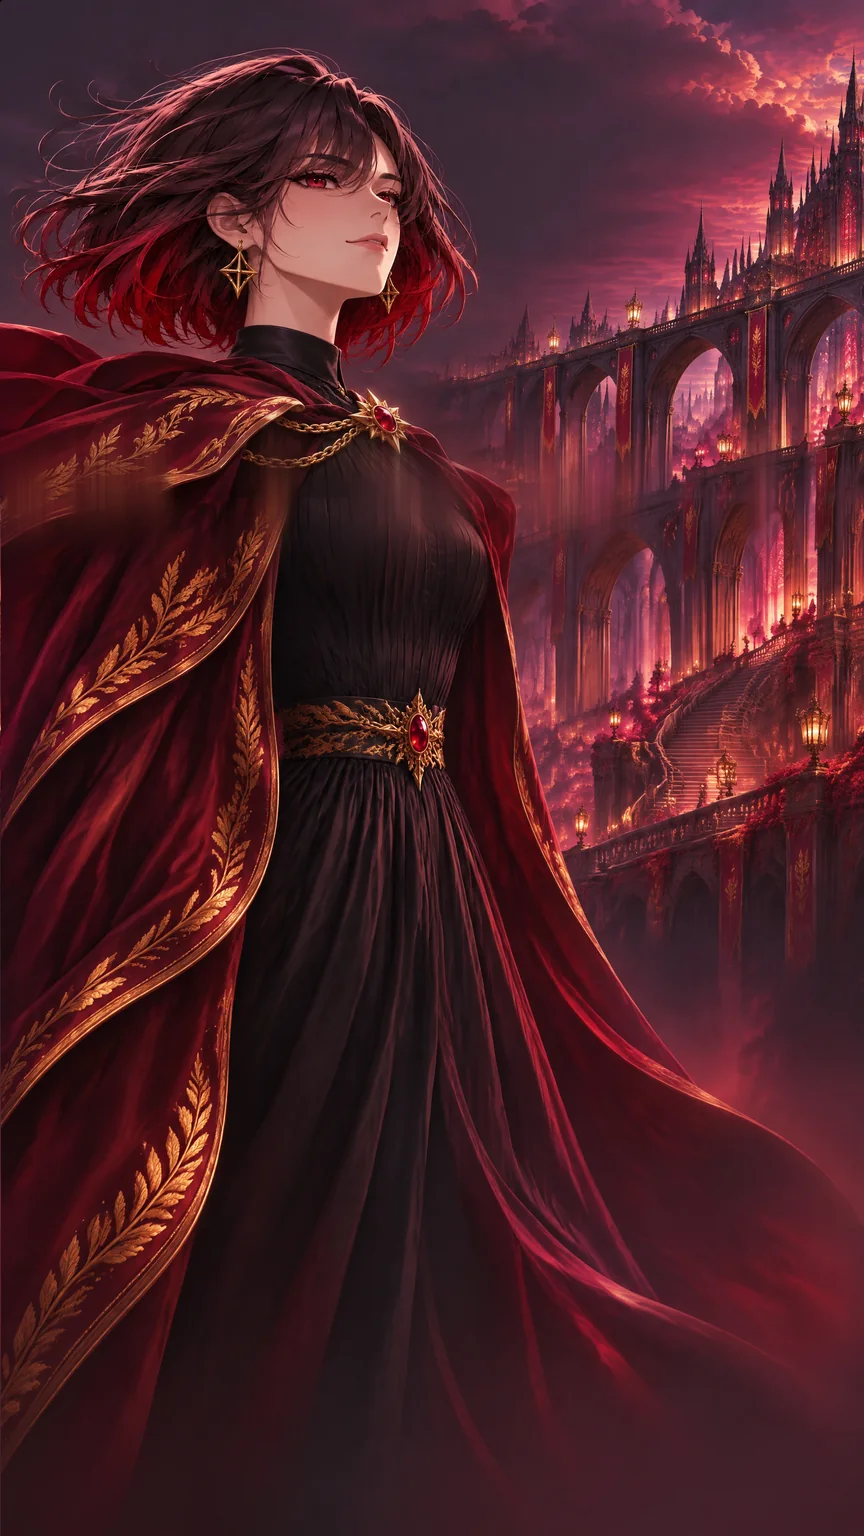
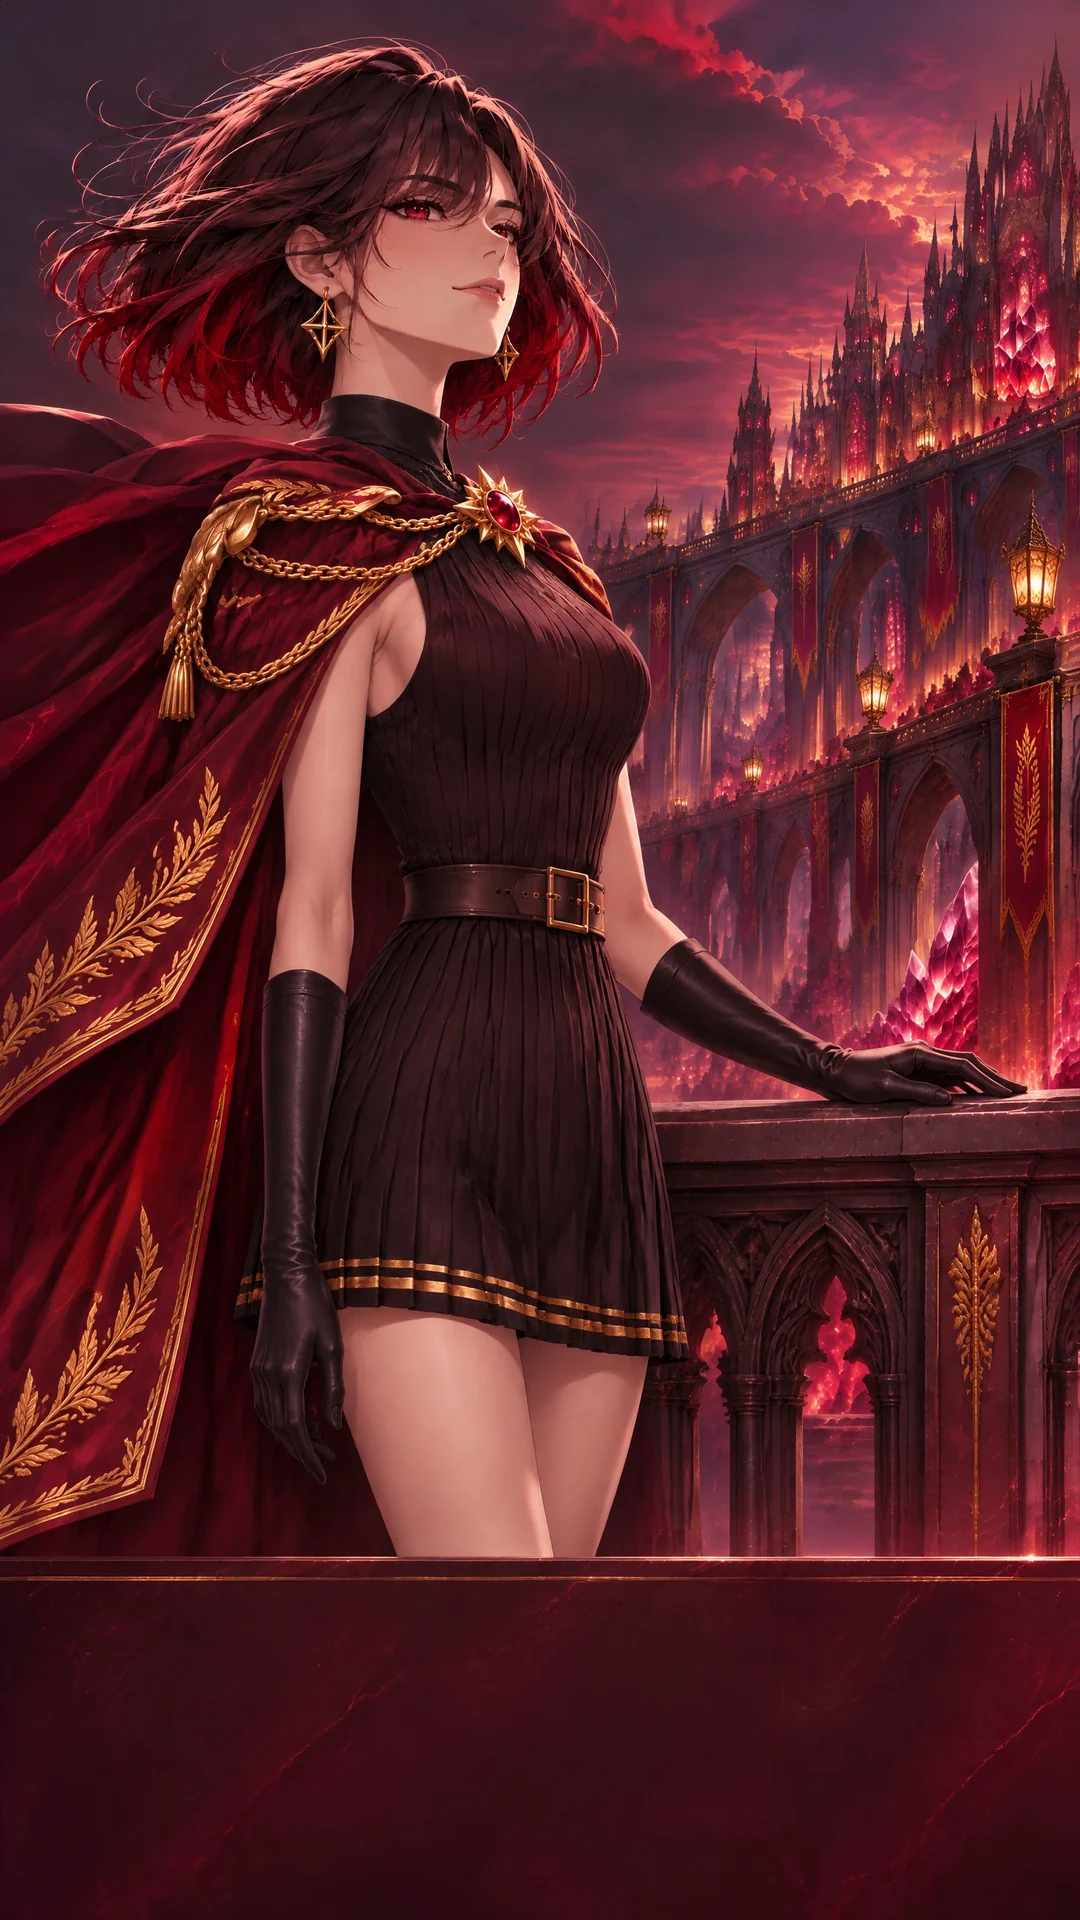
A11: fichas con paralaje, reflejo en el botón, flashes de Nova, Azara según su ficha, Orion con su esfera y sonido de cierre de A01
Claude-Session: https://claude.ai/code/session_01CL7wg269cKFeX8NUniz13e

diff --git a/kura/a01/styles.css b/kura/a01/styles.css
@@ -900,7 +900,29 @@ button, input { font: inherit; color: inherit; }
 .guia-card.is-in-l .guia-arte, .guia-card.is-in-l .guia-body { animation: guia-l .45s cubic-bezier(.2, .9, .3, 1); }
 @keyframes guia-r { from { opacity: 0; translate: 6cqw 0; } }
 @keyframes guia-l { from { opacity: 0; translate: -6cqw 0; } }
-.guia-arte { position: absolute; inset: 0; width: 100%; height: 100%; object-fit: cover; object-position: 50% 0; z-index: -2; }
+.guia-arte, .guia-flashes { position: absolute; left: -3cqw; top: -3cqw; width: calc(100% + 6cqw); height: calc(100% + 6cqw); z-index: -2;
+  translate: calc(var(--gx, 0) * -2.6cqw) calc(var(--gy, 0) * -2.2cqw); transition: translate .5s cubic-bezier(.2, .8, .3, 1); }
+.guia-arte { object-fit: cover; object-position: 50% 0; }
+/* paralaje: el HUD flota al frente, en sentido contrario a la ilustración */
+.guia-body, .guia-foot { translate: calc(var(--gx, 0) * 1.3cqw) calc(var(--gy, 0) * 1cqw); transition: translate .5s cubic-bezier(.2, .8, .3, 1); }
+/* Nova: flashes de cámara que se disparan al azar en el fondo */
+.guia-flashes { pointer-events: none; }
+.guia-flashes i { position: absolute; width: calc(var(--s) * 13cqw); height: calc(var(--s) * 13cqw); translate: -50% -50%; opacity: .12; border-radius: 50%;
+  background: radial-gradient(circle, #fff 0 6%, rgba(220, 240, 255, .9) 12%, rgba(140, 200, 255, .35) 30%, rgba(92, 170, 255, 0) 62%);
+  mix-blend-mode: screen; animation: guia-flash var(--t) var(--d) infinite; }
+.guia-flashes i::before, .guia-flashes i::after { content: ''; position: absolute; left: 50%; top: 50%; width: 180%; height: 2px; translate: -50% -50%;
+  background: linear-gradient(90deg, transparent, rgba(235, 246, 255, .9), transparent); }
+.guia-flashes i::after { rotate: 90deg; width: 120%; }
+@keyframes guia-flash { 0%, 78% { opacity: .1; scale: .55; } 80% { opacity: 1; scale: 1.25; } 84% { opacity: .55; scale: 1; } 86% { opacity: .95; scale: 1.15; } 92%, 100% { opacity: .1; scale: .55; } }
+/* reflejo del botón «Empezar con …»: brillo de cristal arriba y un destello que lo cruza de vez en cuando */
+.guia-start { position: relative; overflow: hidden; isolation: isolate; }
+.guia-start::before { content: ''; position: absolute; left: 6%; right: 6%; top: 0; height: 48%; border-radius: 99px 99px 40% 40%; z-index: -1; pointer-events: none;
+  background: linear-gradient(180deg, rgba(255, 255, 255, .34), rgba(255, 255, 255, 0)); }
+.guia-sheen { position: absolute; top: -40%; bottom: -40%; left: 0; width: 26%; z-index: 1; pointer-events: none; translate: -160% 0; rotate: 18deg;
+  background: linear-gradient(90deg, transparent, rgba(255, 255, 255, .15) 35%, rgba(255, 255, 255, .62) 50%, rgba(255, 255, 255, .15) 65%, transparent);
+  animation: guia-sheen 4.6s cubic-bezier(.45, .05, .25, 1) 1.2s infinite; }
+@keyframes guia-sheen { 0% { translate: -160% 0; } 30%, 100% { translate: 520% 0; } }
+.guia-card[data-guia="amaya"] .guia-sheen, .guia-card[data-guia="amaya"] .guia-start::before { display: none; }
 .guia-velo { position: absolute; inset: 0; z-index: -1; pointer-events: none; }
 .guia-close { position: absolute; top: 3.6cqw; right: 3.6cqw; width: 10cqw; height: 10cqw; display: grid; place-items: center; cursor: pointer; padding: 0;
   border-radius: 50%; border: 1px solid var(--g-line); background: var(--g-glass); backdrop-filter: blur(6px); -webkit-backdrop-filter: blur(6px); }
@@ -1026,8 +1048,34 @@ button, input { font: inherit; color: inherit; }
 .guia-card[data-guia="amaya"] .guia-start { font: 500 4.7cqw/1 var(--g-body); letter-spacing: .03em; border-color: rgba(190, 255, 232, .9);
   background: linear-gradient(90deg, rgba(110, 226, 186, .72), rgba(110, 200, 236, .72)); box-shadow: 0 0 5cqw rgba(120, 236, 196, .55), inset 0 0 3cqw rgba(255, 255, 255, .3); }
 
-.reduce-motion .guia-dialog[open] .guia-card, .reduce-motion .guia-card .guia-arte, .reduce-motion .guia-card .guia-body { animation: none; }
-@media (prefers-reduced-motion: reduce) { .guia-dialog[open] .guia-card, .guia-card .guia-arte, .guia-card .guia-body { animation: none; } }
+
+/* Más aire en el HUD de Azara, Nova y Orion (Amaya se queda como está) */
+.guia-card:not([data-guia="amaya"]) .guia-body { bottom: 21.5cqw; }
+.guia-card:not([data-guia="amaya"]) .guia-items { margin-top: 5.4cqw; }
+.guia-card:not([data-guia="amaya"]) .guia-contempla { margin-top: 3.6cqw; }
+.guia-card[data-guia="azara"] .gh-tag { margin-bottom: 2.6cqw; }
+.guia-card[data-guia="azara"] .guia-titulo { font-size: 7.8cqw; line-height: 1.12; }
+.guia-card[data-guia="azara"] .guia-lista { padding: .6cqw 4.6cqw; }
+.guia-card[data-guia="azara"] .guia-lista .gi { padding: 3.2cqw 0; font-size: 4.6cqw; gap: 3.6cqw; }
+.guia-card[data-guia="azara"] .guia-contempla { padding: 3cqw 4.4cqw; font-size: 3.9cqw; }
+/* Nova: un solo panel minimalista con filetes, sin cajas ni flechas por función */
+.guia-card[data-guia="nova"] .gh-tag { margin-bottom: 2.8cqw; }
+.guia-card[data-guia="nova"] .guia-titulo { font-size: 7.4cqw; }
+.guia-card[data-guia="nova"] .guia-sub { margin-top: 1.8cqw; }
+.guia-card[data-guia="nova"] .guia-grid { gap: 0; padding: .6cqw 3.2cqw; border-radius: 3.6cqw; border: 1px solid var(--g-line); background: var(--g-glass);
+  backdrop-filter: blur(8px); -webkit-backdrop-filter: blur(8px); column-gap: 4cqw; }
+.guia-card[data-guia="nova"] .guia-grid .gi { min-height: 10.6cqw; padding: 2cqw 0; border: 0; border-radius: 0; background: none; backdrop-filter: none; -webkit-backdrop-filter: none;
+  border-bottom: 1px solid rgba(120, 190, 255, .16); font-size: 3.35cqw; gap: 2.4cqw; }
+.guia-card[data-guia="nova"] .guia-grid .gi:nth-last-child(-n+2) { border-bottom: 0; }
+.guia-card[data-guia="nova"] .guia-grid .gi-chev { display: none; }
+.guia-card[data-guia="nova"] .guia-grid .gi-ico { width: 5.8cqw; height: 5.8cqw; }
+/* Orion: filas con más separación y título más contenido */
+.guia-card[data-guia="orion"] .gh-orion { margin-bottom: 5cqw; }
+.guia-card[data-guia="orion"] .guia-titulo { font-size: 8.4cqw; line-height: 1.08; }
+.guia-card[data-guia="orion"] .guia-filas { gap: 3.2cqw; }
+.guia-card[data-guia="orion"] .guia-filas .gi { padding: 3cqw 4cqw; }
+.reduce-motion .guia-dialog[open] .guia-card, .reduce-motion .guia-card .guia-arte, .reduce-motion .guia-card .guia-body, .reduce-motion .guia-sheen, .reduce-motion .guia-flashes i { animation: none; }
+@media (prefers-reduced-motion: reduce) { .guia-dialog[open] .guia-card, .guia-card .guia-arte, .guia-card .guia-body, .guia-sheen, .guia-flashes i { animation: none; } }
 
 /* ---------- A05 · Restaurando sesión (arranque) ----------
    La composición (899 × 1750) cubre siempre toda la pantalla, como un fondo «cover»:

diff --git a/kura/a01/js/a11-guias.js b/kura/a01/js/a11-guias.js
@@ -63,6 +63,8 @@ const GUIA = {
   },
   nova: {
     arte: 'assets/a11/guias/nova.webp', layout: 'grid', contemplaIco: 'ojo',
+    // flashes de los fotógrafos del fondo (en % de la ilustración): [x, y, tamaño]
+    flashes: [[60.4, 23.5, 1], [63.4, 24.6, .7], [72.7, 23.4, 1], [82.5, 24.4, .9], [90.4, 25.3, .8], [97.4, 24.7, .7], [58.9, 24.3, .6], [75.7, 24.5, .6], [86.7, 24.8, .65]],
     es: {
       titulo: ['Tu presencia importa.'], sub: 'Experto en seducción y juegos sociales.',
       items: [['aura', 'Aura de atracción'], ['grupo', 'Juego social'], ['corona', 'Reglas de oro para ligar'], ['copa', 'Domina el lugar'], ['charla', 'Habilidades sociales'], ['pin', 'Escenarios reales'], ['escudo', 'Anti-bullying'], ['corazon', 'Señales de interés']],
@@ -126,6 +128,7 @@ export function guidePreview({ guias, lang, sfx, onStart, reduced }) {
     card.dataset.guia = id;
     card.innerHTML = `
       <img class="guia-arte" src="${G.arte}" alt="" decoding="async" draggable="false">
+      ${G.flashes ? `<div class="guia-flashes" aria-hidden="true">${G.flashes.map(([x, y, s], i) => `<i style="left:${x}%;top:${y}%;--s:${s};--d:${(i * 1.13) % 3.3}s;--t:${1.5 + (i * .61) % 1.9}s"></i>`).join('')}</div>` : ''}
       <div class="guia-velo" aria-hidden="true"></div>
       <button type="button" class="guia-close" aria-label="${U.cerrar}"><svg viewBox="0 0 24 24" aria-hidden="true"><path d="M6.5 6.5l11 11M17.5 6.5l-11 11" /></svg></button>
       <div class="guia-body">
@@ -138,7 +141,7 @@ export function guidePreview({ guias, lang, sfx, onStart, reduced }) {
       </div>
       <div class="guia-foot">
         <button type="button" class="guia-nav guia-prev" aria-label="${U.anterior}">${ARROW_L}</button>
-        <button type="button" class="guia-start"><span>${esc(U.empezar.replace('{nombre}', g.nombre))}</span>${CHEV}</button>
+        <button type="button" class="guia-start"><i class="guia-sheen" aria-hidden="true"></i><span>${esc(U.empezar.replace('{nombre}', g.nombre))}</span>${CHEV}</button>
         <button type="button" class="guia-nav guia-next" aria-label="${U.siguiente}">${ARROW_R}</button>
       </div>`;
   }
@@ -163,13 +166,15 @@ export function guidePreview({ guias, lang, sfx, onStart, reduced }) {
   // precarga silenciosa de las cuatro ilustraciones (al pasar de una a otra no hay parpadeo)
   const pre = () => Object.values(GUIA).forEach((G) => { const im = new Image(); im.decoding = 'async'; im.src = G.arte; });
 
-  dlg.addEventListener('close', () => { current = null; opener?.focus?.({ preventScroll: true }); opener = null; });
-  dlg.addEventListener('click', (e) => { if (e.target === dlg) { sfx('tap'); close(); } }); // tocar fuera la cierra
+  // al cerrar suena lo mismo que al cerrar Términos y Privacidad en A01 (no al empezar el tour, que tiene su propio sonido)
+  let starting = false;
+  dlg.addEventListener('close', () => { if (!starting) sfx('closeLegal'); starting = false; current = null; opener?.focus?.({ preventScroll: true }); opener = null; });
+  dlg.addEventListener('click', (e) => { if (e.target === dlg) close(); }); // tocar fuera la cierra
   card.addEventListener('click', (e) => {
-    if (e.target.closest('.guia-close')) { sfx('tap'); close(); }
+    if (e.target.closest('.guia-close')) close();
     else if (e.target.closest('.guia-prev')) step(-1);
     else if (e.target.closest('.guia-next')) step(1);
-    else if (e.target.closest('.guia-start')) { const id = current; close(); onStart(id); }
+    else if (e.target.closest('.guia-start')) { const id = current; starting = true; close(); onStart(id); }
   });
   dlg.addEventListener('keydown', (e) => {
     if (e.key === 'ArrowRight') { e.preventDefault(); step(1); }
@@ -186,5 +191,12 @@ export function guidePreview({ guias, lang, sfx, onStart, reduced }) {
   card.addEventListener('pointercancel', () => { tracking = false; });
   document.addEventListener('kura:lang', () => { if (current) render(current); });
 
-  return { open, close, prefetch: pre, get current() { return current; }, get isOpen() { return dlg.open; } };
+  /** Paralaje (cursor o giroscopio): la ilustración va al fondo y el HUD flota al frente. n = [x, y] en −1…1. */
+  function look([x, y]) {
+    if (!dlg.open) return;
+    const r = reduced(), nx = r ? 0 : Math.max(-1, Math.min(1, x)), ny = r ? 0 : Math.max(-1, Math.min(1, y));
+    card.style.setProperty('--gx', nx.toFixed(3)); card.style.setProperty('--gy', ny.toFixed(3));
+  }
+
+  return { open, close, look, prefetch: pre, get current() { return current; }, get isOpen() { return dlg.open; } };
 }

diff --git a/kura/a01/js/main.js b/kura/a01/js/main.js
@@ -36,7 +36,8 @@ let stars = null;
 // Estado de aparición del lienzo de Three.js (estrellas y destellos), animado junto con la escena.
 const reveal = { stars: motion.reduced ? 1 : 0, flares: motion.reduced ? 1 : 0, zoom: motion.reduced ? 1 : 1.06, sky6: 0 }; // sky6: estrellas del cielo de A06
 let a06 = null, a10 = null, a11 = null;
-const tilt = parallax(stage, motion, unit, (o) => { stars?.shift(o); a06?.look(o.n); a10?.look(o.n); a11?.look(o.n); });
+let guiaFicha = null; // vista previa de los guías de A11 (también con paralaje)
+const tilt = parallax(stage, motion, unit, (o) => { stars?.shift(o); a06?.look(o.n); a10?.look(o.n); a11?.look(o.n); guiaFicha?.look(o.n); });
 // A06 · Bienvenida con Alaira: su escenario se arma la primera vez que hace falta (o en segundo plano).
 a06 = mountA06({ stage, motion, onLayers: (els) => tilt.addLayers(els) });
 // A10 · ¿Qué te motiva a cambiar tu Aura?: escenario propio (Alaira en la luna creciente sobre el lago).
@@ -554,6 +555,7 @@ const preview = guidePreview({
   guias: GUIAS, lang: currentLang, sfx: (n) => audio.sfx(n), reduced: () => motion.reduced,
   onStart: (id) => { audio.sfx('start'); a11.sparkle(20); try { localStorage.setItem('kura.tourInicio', id); } catch {} toast(t('a11Soon')); },
 });
+guiaFicha = preview;
 guiasEl.addEventListener('click', (e) => {
   const card = e.target.closest('.a11-card'); if (!card) return;
   audio.sfx('tap'); a11.sparkle(16);

diff --git a/kura/a01/README.md b/kura/a01/README.md
@@ -126,7 +126,7 @@ Se entra con «Continuar» u «Omitir» en A10; también con `#a11`. **Escenario
 - **Paralaje** con cursor o giroscopio: templo y cielo al fondo, Alaira en medio, glicinas y pétalos delante, el HUD encima, y dentro de cada banner el mundo se desliza un poco (ventana con profundidad).
 - **Título** según la identidad elegida en A09: «¿Lista para / KURA?» (mujer), «¿Listo para / KURA?» (hombre) y «¿Todo listo / para KURA?» (otra identidad, prefiero no decirlo o sin respuesta). En inglés siempre «Ready for / KURA?». Arriba «Tu viaje comienza» · «Your journey begins» y abajo «Ellos también te esperan.» · «They’re waiting for you too.».
 - **Banners** de Amaya (ciudad aérea de cristal y jardines), Azara (castillo carmesí imponente, con vitrales y cristales de rubí), Nova (noche pop star en azul oscuro, con flashes) y Orion (biblioteca observatorio con esfera armilar), en HD (`assets/a11/banners/`, 1400 × 600). El nombre y la flecha van en texto real (nítido y traducible). Tocar un banner hace destellar el dedo de Alaira y abre su **vista previa** (`js/a11-guias.js`).
-- **Vista previa del guía** (diseños aprobados, hechos con Higgsfield): ficha del mismo tamaño para los cuatro (9 : 16, todo medido en `cqw`), con la **misma imagen de su banner** a sangre (el banner arriba, intacto, y su mundo continuado hacia abajo con Higgsfield; `assets/a11/guias/`, HD en `kura/diseno/A11/guias/`) y un HUD con el estilo de cada mundo: **Amaya** aero (cristal claro, menta y cielo, título ancho en Michroma con «Cuerpo · Cuidado · Descanso», mosaicos con datos de ejemplo y el aviso de consultar siempre al médico), **Azara** carmesí rubí sobrio (Cormorant marfil, lista en cristal guinda), **Nova** pop star de noche minimalista (Outfit delgada, azul de ciudad, ocho mosaicos) y **Orion** biblioteca observatorio en azul noche y oro (Cormorant marfil, título a la izquierda con trazo dorado, cada función en su propia barra de cristal). Todos con su **modo contemplación**. Se pasa de un guía a otro con las flechas, deslizando o con ← →; se cierra con la X, tocando fuera, Esc o al cambiar de pantalla. «Empezar con …» deja anotado por quién empezar el tour (`localStorage`, clave `kura.tourInicio`). Español e inglés. Letras: Cormorant Garamond, Outfit y Michroma (OFL, en `assets/fonts/`).
+- **Vista previa del guía** (diseños aprobados, hechos con Higgsfield): ficha del mismo tamaño para los cuatro (9 : 16, todo medido en `cqw`), con la **misma imagen de su banner** a sangre (el banner arriba, intacto, y su mundo continuado hacia abajo con Higgsfield; `assets/a11/guias/`, HD en `kura/diseno/A11/guias/`) y un HUD con el estilo de cada mundo: **Amaya** aero (cristal claro, menta y cielo, título ancho en Michroma con «Cuerpo · Cuidado · Descanso», mosaicos con datos de ejemplo y el aviso de consultar siempre al médico), **Azara** carmesí rubí sobrio (Cormorant marfil, lista en cristal guinda), **Nova** pop star de noche minimalista (Outfit delgada, azul de ciudad, ocho mosaicos) y **Orion** biblioteca observatorio en azul noche y oro (Cormorant marfil, título a la izquierda con trazo dorado, cada función en su propia barra de cristal). Todos con su **modo contemplación**. El HUD tiene paralaje (la ilustración va al fondo y el HUD flota al frente), el botón «Empezar con …» un reflejo de cristal con un destello que lo cruza (menos en Amaya) y, en Nova, los flashes de los fotógrafos del fondo se disparan al azar. Azara usa su ficha técnica (vestido corto sin mangas, guantes bajo el codo, capa burdeos con broche de rubí) y Orion su esfera armilar a la vista. Al cerrar suena lo mismo que al cerrar Términos y Privacidad en A01. Se pasa de un guía a otro con las flechas, deslizando o con ← →; se cierra con la X, tocando fuera, Esc o al cambiar de pantalla. «Empezar con …» deja anotado por quién empezar el tour (`localStorage`, clave `kura.tourInicio`). Español e inglés. Letras: Cormorant Garamond, Outfit y Michroma (OFL, en `assets/fonts/`).
 - **Iniciar el tour** · **Start the tour** (sonido de inicio) y **Saltar** · **Skip**: por ahora muestran un aviso, hasta que existan el tour (A13–A17) y Hoy.
 - **Cabe sin scroll** en cualquier teléfono (probado de 375 × 629 a 430 × 932): en teléfonos altos los banners crecen; en los bajos suben sobre el barandal y se compactan.
 
